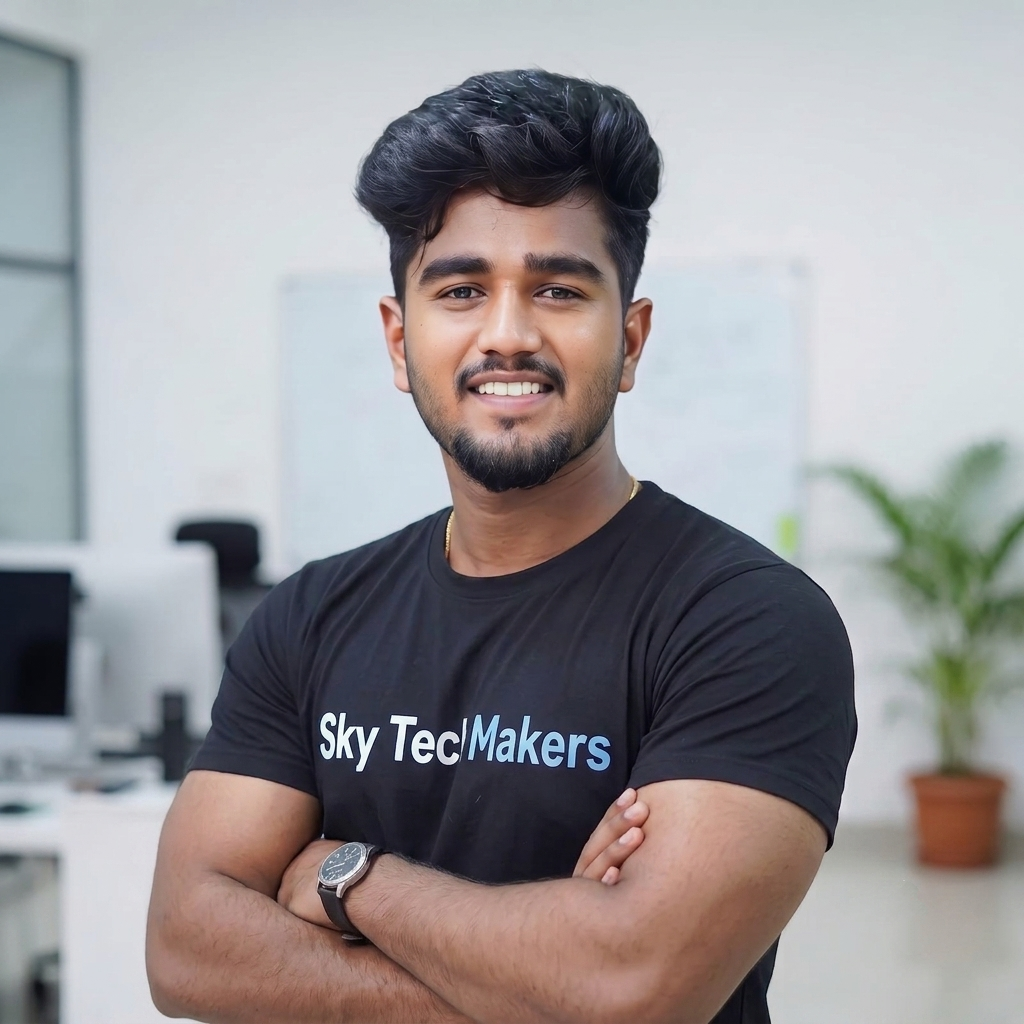
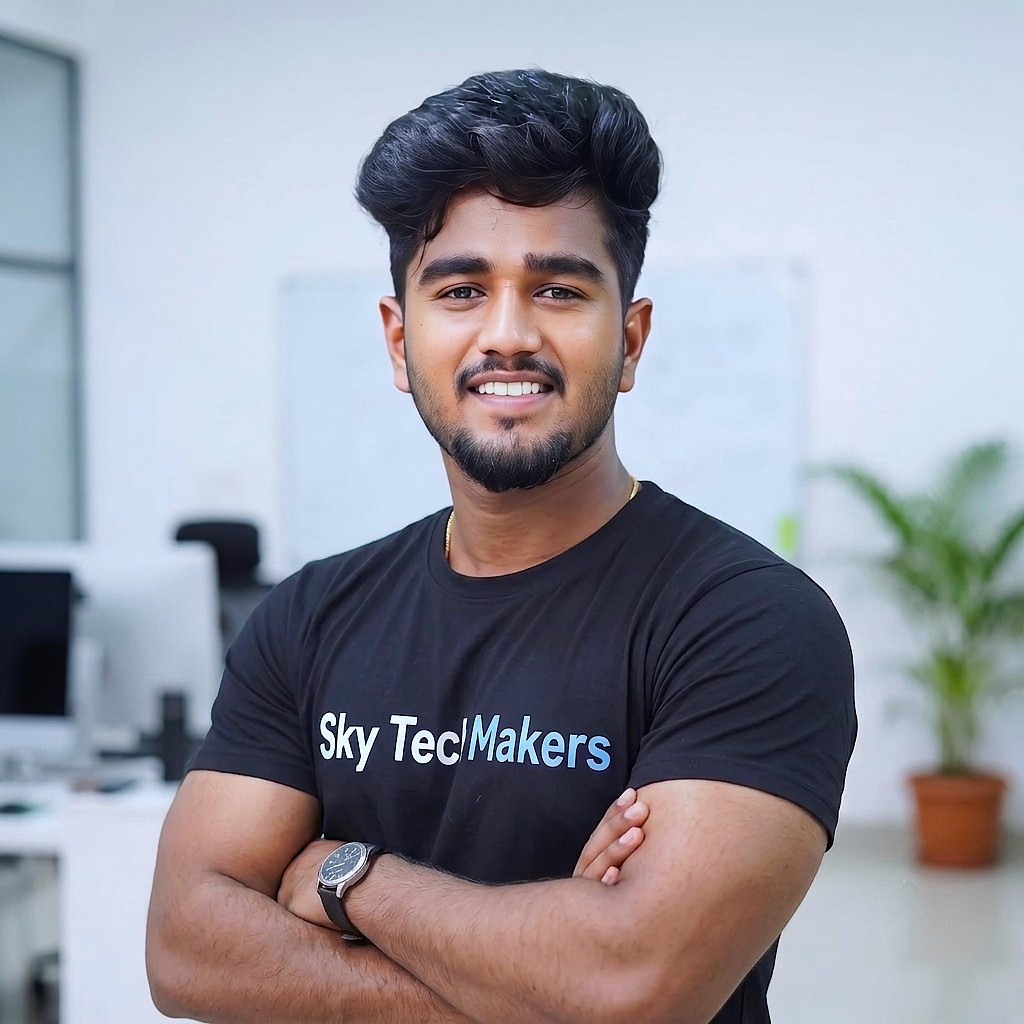
image

diff --git a/client/src/components/Footer.jsx b/client/src/components/Footer.jsx
@@ -110,7 +110,7 @@ export default function Footer() {
               <li className="flex items-start gap-3 text-sm text-slate-500">
                 <FiMail className="w-4 h-4 text-indigo-400 mt-0.5 flex-shrink-0" />
                 <a href="mailto:skytechmakers@gmail.com" className="hover:text-indigo-400 transition-colors">
-                  skytechmakers@gmail.com
+                  contact.skytechmakers@gmail.com
                 </a>
               </li>
               <li className="flex items-start gap-3 text-sm text-slate-500">

diff --git a/client/src/pages/Home.jsx b/client/src/pages/Home.jsx
@@ -7,7 +7,7 @@ import { BASE_URL } from "../config";
 import { useAuth } from "../context/AuthContext";
 import kubendiranImg from "../assets/kubendiran.png";
 import rajkiranImg from "../assets/rajkiran.jpg";
-import sivasakthiImg from "../assets/sivasakthi.jpg";
+import sivasakthiImg from "../assets/sivasakthi.jpeg";
 import prabavathiImg from "../assets/prabavathi.png";
 import { useTypewriter, Cursor } from "react-simple-typewriter";
 import { TestimonialsSection } from "@/components/ui/testimonial-v2";
